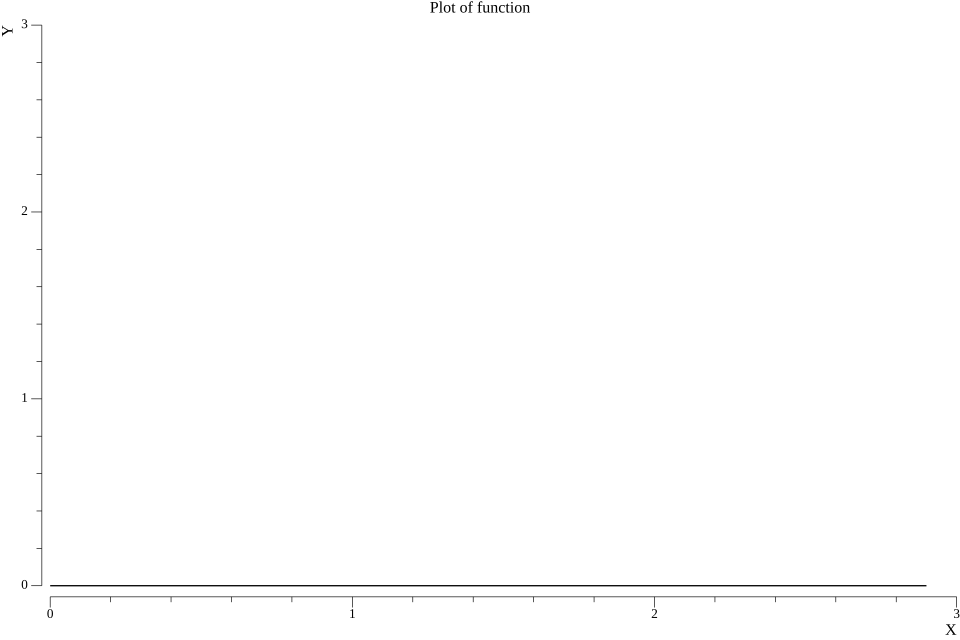
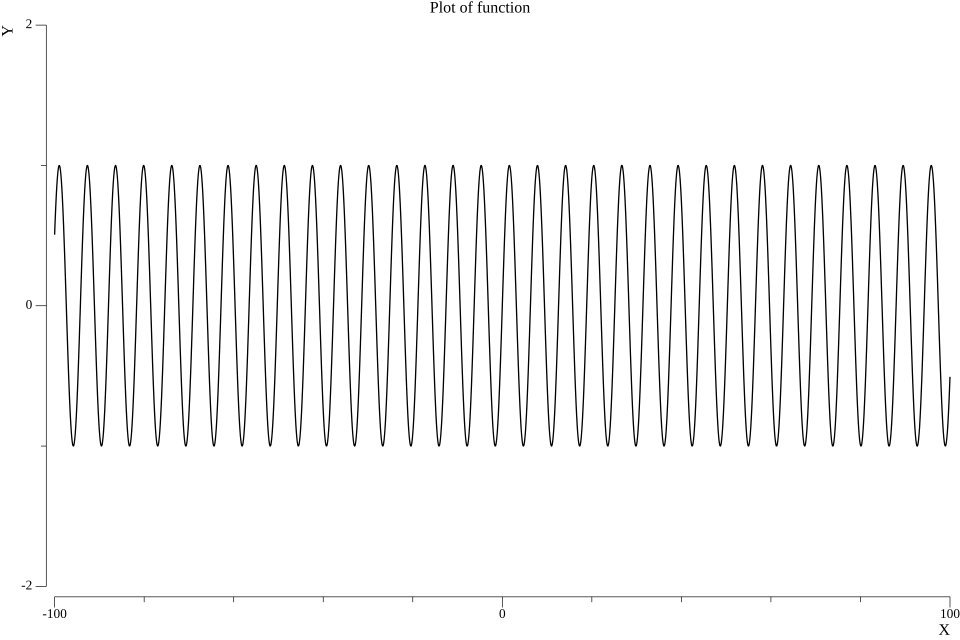
i guess done

diff --git a/index.html b/index.html
@@ -127,34 +127,42 @@
     </p>
     <br></br>
     <p>
-        <label><br>x,y(min, max)</label>
-        <button id="button7" class="simple_buttons" value="7">7</button>
+        <label><br>x,y min</label>
+        <button id="button7" class="simple_buttons" value="7" style="margin-left: 2px;">7</button>
         <button id="button8" class="simple_buttons" value="8">8</button>
 		<button id="button9" class="simple_buttons" value="9">9</button>
+        <label><br>x,y max</label>
     </p>
     <br></br>
     <p>
-        <input id="input_min" type="text" placeholder="0" class="input_xy"></input>
-        <button id="button_clear" class="simple_buttons" value="clear">AC</button>
+        <input id="input_min_x" type="text" placeholder="0" class="input_xy"></input>
+        <button id="button_clear" class="simple_buttons" value="clear" style="margin-left: 3.5px;">AC</button>
 		<button id="button0" class="simple_buttons" value="0">0</button>
         <button id="button_equals" class="simple_buttons" value="=">=</button>
-		<button id="button_help" class="simple_buttons" value="help">help</button>
+        <input id="input_max_x" type="text" placeholder="0" class="input_xy"></input>
     </p>
     <br></br>
     <p>
-        <input id="input_max" type="text" placeholder="0" class="input_xy"></input>
+        <input id="input_min_y" type="text" placeholder="0" class="input_xy"></input>
         <label style="font-size: 2em; width: 3.1em; margin-top: 0.1em; height: 1.2em;">X=</label><input id="input_x_value" type="text" placeholder="0" value="0" class="input_xy"></input>
-        <button id="button_dot" class="simple_buttons" value=".">.</button>
-		<button id="button_graph" class="simple_buttons" value="graph">graph</button>
+        <button id="button_dot" class="simple_buttons" value="." style="margin-left: 3.5px;">.</button>
+        <input id="input_max_y" type="text" placeholder="0" class="input_xy"></input>
     </p>
     <br></br>
     <p>
         <label style="max-width: 5.9em;"><br>history</label>
-        <button id="button_last" class="simple_buttons" value="last">last</button>
+        <button id="button_last" class="simple_buttons" value="last" style="margin-left: 3.5px;">last</button>
         <button id="button_prev" class="simple_buttons" value="prev">prev</button>
 		<button id="button_next" class="simple_buttons" value="next">next</button>
-		<button id="button_history_clear" class="simple_buttons" value="history_clear">clear</button>
     </p>
+    <br></br>
+    <p>
+        <button style="visibility: hidden; color: transparent; margin-left: -1.5px" class="simple_buttons"></button>
+        <button id="button_help" class="simple_buttons" value="help" style="margin-left: 3.5px;">help</button>
+        <button id="button_graph" class="simple_buttons" value="graph">graph</button>
+        <button id="button_history_clear" class="simple_buttons" value="history_clear">clear</button>
+    </p>
+
 <script src="./jsScript/index.js"></script>
 <!-- <script src="./jsScript/renderer.js"></script> -->
 </body>

diff --git a/jsScript/index.js b/jsScript/index.js
@@ -1,8 +1,10 @@
 const buttons = document.getElementsByClassName('simple_buttons')
 const mainEntry = document.getElementById('inputField')
 const xInput= document.getElementById('input_x_value')
-const xyMin = document.getElementById('input_min')
-const xyMax = document.getElementById('input_max')
+const xMin = document.getElementById('input_min_x')
+const xMax = document.getElementById('input_max_x')
+const yMin = document.getElementById('input_min_y')
+const yMax = document.getElementById('input_max_y')
 
 let start = true
 
@@ -55,12 +57,20 @@ for (var i = 0; i < buttons.length; i++) {
 	buttons[i].addEventListener('click', clickFunction)
 }
 
-xyMin.addEventListener('focusout', () => {
-	sendRequest('xy_min= ' + xyMin.value)
+xMin.addEventListener('focusout', () => {
+	sendRequest('x_min= ' + xMin.value)
 })
 
-xyMax.addEventListener('focusout', () => {
-	sendRequest('xy_max= ' + xyMax.value)
+xMax.addEventListener('focusout', () => {
+	sendRequest('x_max= ' + xMax.value)
+})
+
+yMin.addEventListener('focusout', () => {
+	sendRequest('y_min= ' + yMin.value)
+})
+
+yMax.addEventListener('focusout', () => {
+	sendRequest('y_max= ' + yMax.value)
 })
 
 

diff --git a/controller/controller.go b/controller/controller.go
@@ -21,7 +21,7 @@ type Controller struct {
 	history                map[int64]string
 	currentHistoryPosition int64
 	logFile                *os.File
-	XMax, XMin             float64
+	XMax, XMin, YMin, YMax float64
 }
 
 func (Controller *Controller) GET(router *gin.Engine) {
@@ -39,7 +39,7 @@ func (Controller *Controller) GET(router *gin.Engine) {
 		ctx.HTML(http.StatusOK, "help.html", nil)
 	})
 	router.GET("/graph_window.html", func(ctx *gin.Context) {
-		_, err := Controller.InvokeGraphic(Controller.XMin, Controller.XMax, Controller.XMin, Controller.XMax)
+		_, err := Controller.InvokeGraphic(Controller.XMin, Controller.XMax, Controller.YMin, Controller.YMax)
 		if err == nil {
 			ctx.HTML(http.StatusOK, "graph_window.html", nil)
 		}
@@ -58,12 +58,18 @@ func (Controller *Controller) POST(router *gin.Engine) {
 		if strings.HasPrefix(q, "x= ") {
 			q = strings.TrimPrefix(q, "x= ")
 			Controller.Expression = strings.ReplaceAll(Controller.Expression, "X", q)
-		} else if strings.HasPrefix(q, "xy_min= ") {
-			q = strings.TrimPrefix(q, "xy_min= ")
+		} else if strings.HasPrefix(q, "x_min= ") {
+			q = strings.TrimPrefix(q, "x_min= ")
 			Controller.XMin, _ = strconv.ParseFloat(q, 64)
-		} else if strings.HasPrefix(q, "xy_max= ") {
-			q = strings.TrimPrefix(q, "xy_max= ")
+		} else if strings.HasPrefix(q, "x_max= ") {
+			q = strings.TrimPrefix(q, "x_max= ")
 			Controller.XMax, _ = strconv.ParseFloat(q, 64)
+		} else if strings.HasPrefix(q, "y_min= ") {
+			q = strings.TrimPrefix(q, "y_min= ")
+			Controller.YMin, _ = strconv.ParseFloat(q, 64)
+		} else if strings.HasPrefix(q, "y_max= ") {
+			q = strings.TrimPrefix(q, "y_max= ")
+			Controller.YMax, _ = strconv.ParseFloat(q, 64)
 		} else if q == "clear" {
 			Controller.Expression = ""
 		} else if q == "=" {
@@ -101,6 +107,7 @@ func (c *Controller) HandleMessage(message string) {
 		} else if message == " sin " || message == " cos " || message == " tan " ||
 			message == " asin " || message == " acos " || message == " atan " ||
 			message == " ln " || message == " log " || message == " sqrt " || message == " mod " {
+			fmt.Println(message)
 			c.Expression += message
 			c.ExpressionBack += strings.TrimSuffix(message, " ") + "( "
 		} else if message == "clear" {

diff --git a/model/model.go b/model/model.go
@@ -1,6 +1,7 @@
 package Model
 
 import (
+	"fmt"
 	"math"
 	"strconv"
 	"strings"
@@ -122,7 +123,9 @@ func (m *Model) infixToPostfix(s []string) (string, error) {
 	var postfixString string
 	var stack stack.Stack[string]
 	for _, value := range s {
+		value = strings.TrimSpace(value)
 		prior := m.getPriority(value)
+		fmt.Println(prior, value)
 		if prior < 0 && value != "(" && value != ")" {
 			postfixString = postfixString + " " + value
 		} else if value == "(" {
@@ -182,5 +185,6 @@ func (m *Model) StartComputeRPN() bool {
 		return false
 	}
 	m.Result = Result
+	fmt.Println("result is ", Result)
 	return true
 }

diff --git a/drawer/drawer.go b/drawer/drawer.go
@@ -20,6 +20,7 @@ type Drawer struct {
 
 func (d *Drawer) initPlotterFunction(x float64) float64 {
 	var m Model.Model
+	m.FillPriorities()
 	X := strconv.FormatFloat(x, 'f', -1, 64)
 	m.Expression = strings.ReplaceAll(d.Expression, "X", X)
 	m.StartComputeRPN()
@@ -31,7 +32,7 @@ func (d *Drawer) initPlotterFunction(x float64) float64 {
 
 func (d *Drawer) Draw() (string, error) {
 	var xys plotter.XYs
-	fmt.Println(d.XMax, d.XMin)
+	fmt.Println(d.XMax, d.XMin, d.YMax, d.YMin)
 	for x := d.XMin; x <= d.XMax; x += 0.1 {
 		y := d.initPlotterFunction(x)
 		if math.IsNaN(y) || y > d.YMax || y < d.YMin {
